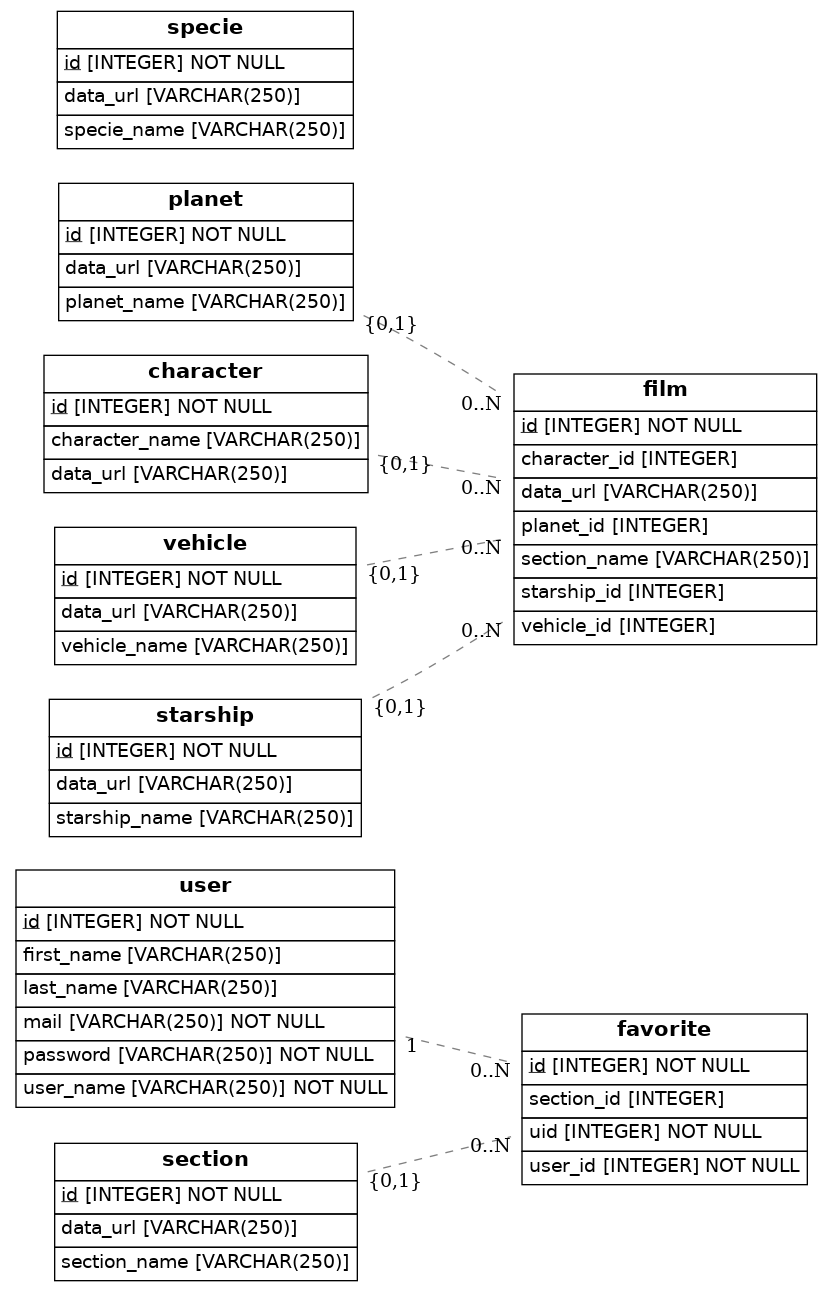
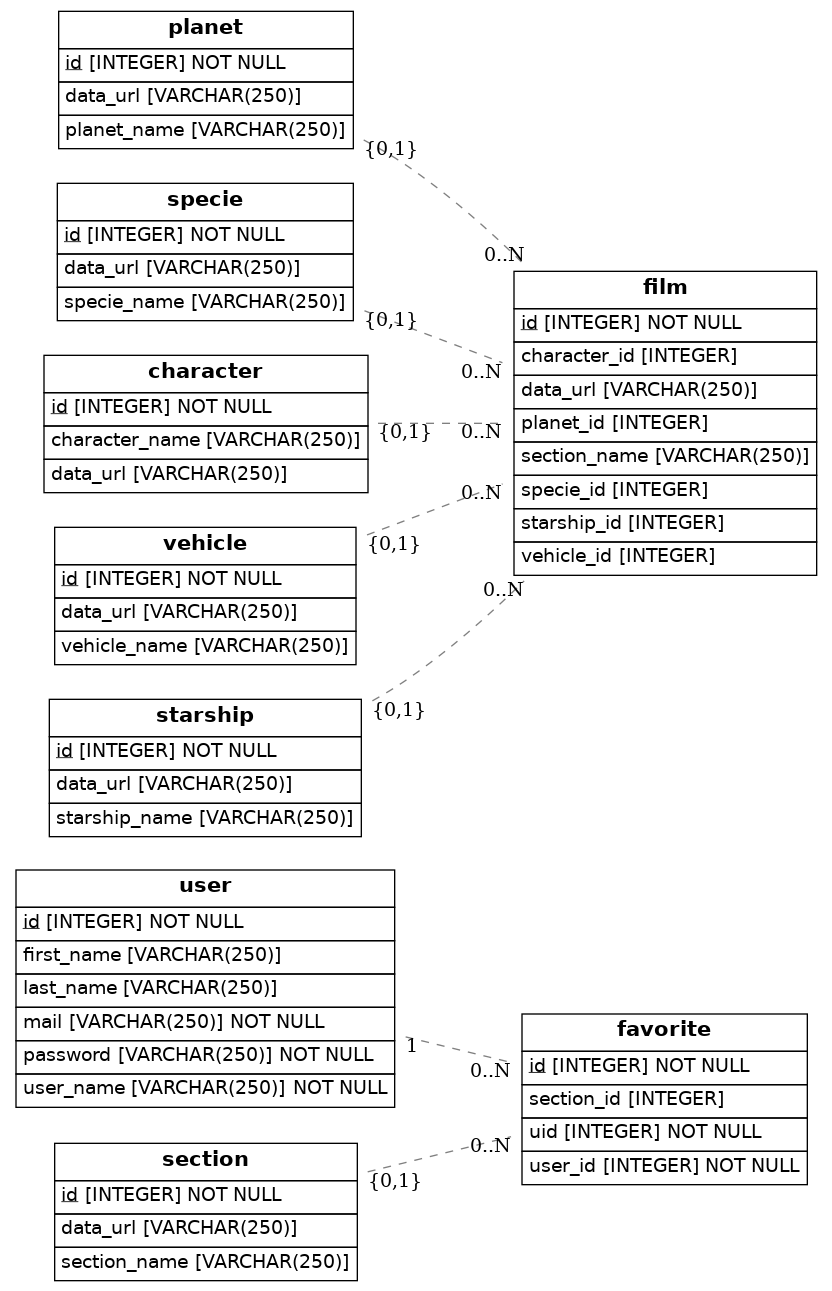
Relaciones ok

diff --git a/src/models.py b/src/models.py
@@ -18,15 +18,7 @@ class Users(Base):
     mail = Column(String(250), nullable=False)
     first_name = Column(String(250), nullable=True)
     last_name = Column(String(250), nullable=True)
-
-
-class Sections(Base):
-    __tablename__ = "section"
-    # Here we define columns for the table address.
-    # Notice that each column is also a normal Python instance attribute.
-    id = Column(Integer, primary_key=True)
-    section_name = Column(String(250))
-    data_url = Column(String(250))
+    favorite = relationship(Favorites)
 
 
 class Planets(Base):
@@ -85,6 +77,17 @@ class Films(Base):
     character_id = Column(Integer, ForeignKey("character.id"))
     vehicle_id = Column(Integer, ForeignKey("vehicle.id"))
     planet_id = Column(Integer, ForeignKey("planet.id"))
+    specie_id = Column(Integer, ForeignKey("specie.id"))
+
+
+class Sections(Base):
+    __tablename__ = "section"
+    # Here we define columns for the table address.
+    # Notice that each column is also a normal Python instance attribute.
+    id = Column(Integer, primary_key=True)
+    section_name = Column(String(250))
+    data_url = Column(String(250))
+    favorite = relationship(Favorites)
 
 
 class Favorites(Base):
